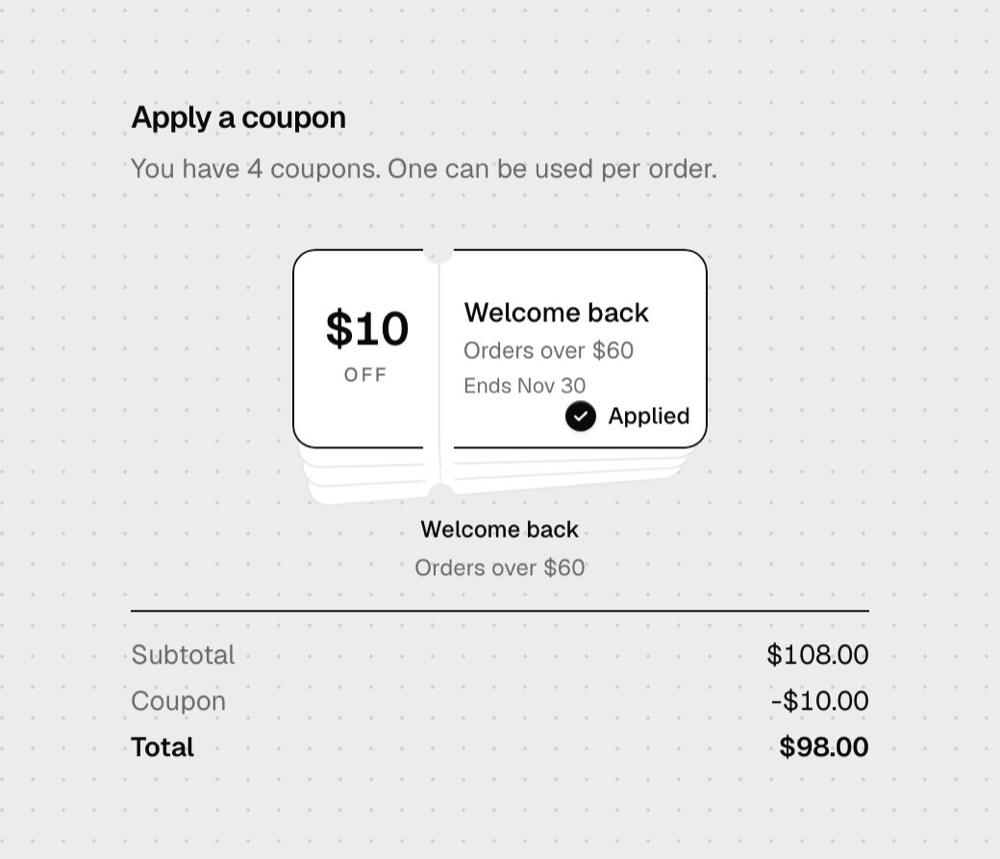
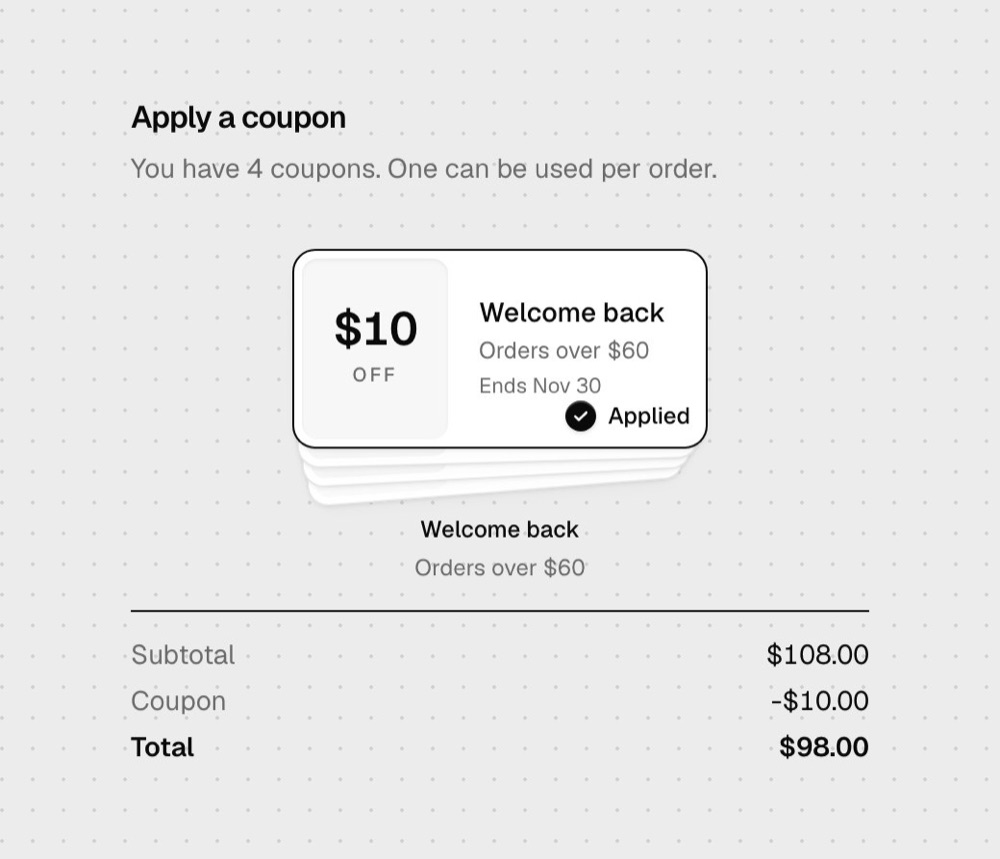
feat(web): no notches or tears on coupons either, inset well instead
- coupon-wallet: the notch mask and perforated divider are gone; the
  amount sits in an inset well (concentric 12 - 4 = 8px radius).
- DESIGN.md and guidelines.ts: no perforations, notches or tears even for
  coupon and pickup-ticket topics; reveal a code with a raised lid that
  lifts away from an inset well, or a bar that slides away. Only the
  receipt-printer scene keeps its receipt look.
- public/og/blocks: coupon-wallet, coupon-claim-card, review-request and
  pickup-ticket recaptured in light.

Changed region(s): [[0.465, 0.3329, 0.682, 0.454], [0.31, 0.3632, 0.434, 0.454], [0.434, 0.5146, 0.465, 0.5448]]

diff --git a/apps/web/registry/free/coupon-wallet/coupon-wallet.tsx b/apps/web/registry/free/coupon-wallet/coupon-wallet.tsx
@@ -1,7 +1,7 @@
 "use client";
 
 import { AnimatePresence, motion, useReducedMotion } from "framer-motion";
-import { useRef, useState, type CSSProperties, type KeyboardEvent } from "react";
+import { useRef, useState, type KeyboardEvent } from "react";
 
 import { Result } from "@/components/ui/stamp";
 import { cn } from "@/lib/utils";
@@ -98,13 +98,8 @@ const springs = {
   gentle: { type: "spring", stiffness: 240, damping: 30 },
 } as const;
 
-/** 票根寬度與打孔缺口半徑 */
+/** 左側面額凹面的寬度 */
 const STUB = 76;
-const NOTCH = 8;
-const notches: CSSProperties = (() => {
-  const mask = `radial-gradient(circle ${NOTCH}px at ${STUB}px 0, #0000 97%, #000), radial-gradient(circle ${NOTCH}px at ${STUB}px 100%, #0000 97%, #000)`;
-  return { maskImage: mask, WebkitMaskImage: mask, maskComposite: "intersect", WebkitMaskComposite: "source-in" };
-})();
 
 export function CouponWallet({ coupons, value, defaultValue = null, onChange, locale = "en", labels, className }: CouponWalletProps) {
   const t = { ...MESSAGES[resolveLocale(locale)], ...labels };
@@ -213,19 +208,21 @@ export function CouponWallet({ coupons, value, defaultValue = null, onChange, lo
               animate={target}
               transition={reduce ? { duration: 0 } : springs.gentle}
               style={{ zIndex: lifted ? n + 1 : open ? i : n - r, transformOrigin: "50% 120%" }}
-              className="absolute inset-x-0 top-5 mx-auto block h-[6.5rem] w-[13.5rem] rounded-md text-left focus-visible:outline-none [&:focus-visible>span]:ring-2 [&:focus-visible>span]:ring-ring motion-safe:active:scale-[0.97] transition-[color,background-color,border-color,opacity,scale]"
+              className="absolute inset-x-0 top-5 mx-auto block h-[6.5rem] w-[13.5rem] rounded-xl text-left focus-visible:outline-none [&:focus-visible>span]:ring-2 [&:focus-visible>span]:ring-ring motion-safe:active:scale-[0.97] transition-[color,background-color,border-color,opacity,scale]"
             >
               <span
-                style={notches}
                 className={cn(
-                  "relative flex h-full overflow-hidden rounded-xl border shadow-[0_1px_2px_rgb(0_0_0/0.05),0_4px_12px_-6px_rgb(0_0_0/0.06)] dark:shadow-[inset_0_1px_0_rgb(255_255_255/0.06)]",
+                  "relative flex h-full gap-1 overflow-hidden rounded-xl border p-1 shadow-[0_1px_2px_rgb(0_0_0/0.05),0_4px_12px_-6px_rgb(0_0_0/0.06)] dark:shadow-[inset_0_1px_0_rgb(255_255_255/0.06)]",
                   surface,
                   isOn ? spotBorder : edge,
                 )}
               >
-                {/* 不可用時只淡化內容，紙面保持不透明，扇形展開時後面的券才不會透出來 */}
+                {/* 面額放在凹面裡（同心圓角 12 − 4 = 8）。不可用時只淡化內容，表面保持不透明，扇形展開時後面的券才不會透出來 */}
                 <span
-                  className={cn("flex shrink-0 flex-col items-center justify-center border-r", edge, c.unavailableReason && "opacity-55")}
+                  className={cn(
+                    "flex shrink-0 flex-col items-center justify-center rounded-lg bg-muted/70 shadow-[inset_0_1px_2px_rgb(0_0_0/0.06)] dark:bg-foreground/[0.04] dark:shadow-[inset_0_1px_2px_rgb(0_0_0/0.4)]",
+                    c.unavailableReason && "opacity-55",
+                  )}
                   style={{ width: STUB }}
                 >
                   <span className={cn("text-2xl leading-none font-semibold tracking-tight tabular-nums", spot)}>{c.amount}</span>

diff --git a/apps/web/lib/agent/guidelines.ts b/apps/web/lib/agent/guidelines.ts
@@ -49,7 +49,7 @@ const craft = `## Series: craft (default when meta.series is missing)
 
 ${seriesSummary.craft}
 
-SunUI dropped its old "paper" look on 2026-11-19: no paper or ink hex colours, no perforations, notches or zigzag tears as a signature, no flat shadowless cards. If an older block still has \`#f7f7f7\`, \`#e2e2e2\` or \`#171717\` classes, that is legacy; new code uses the tokens below.
+SunUI dropped its old "paper" look on 2026-11-19: no paper or ink hex colours, no perforations, notches or zigzag tears (not even on coupons or pickup tickets; reveal a code with a raised lid that lifts away from an inset well, or a bar that slides away), no flat shadowless cards. If an older block still has \`#f7f7f7\`, \`#e2e2e2\` or \`#171717\` classes, that is legacy; new code uses the tokens below.
 
 | Role | Tailwind | Fallback |
 |---|---|---|

diff --git a/apps/web/DESIGN.md b/apps/web/DESIGN.md
@@ -54,7 +54,7 @@ block 不寫死色碼，全部讀買家的 shadcn 主題 token，裝進任何主
 
 - **同心圓角**：控制項 6px（`rounded-md`），卡片與券 12px（`rounded-xl`），面板與對話框 16px（`rounded-2xl`），膠囊 `rounded-full`。巢狀時內圓角 = 外圓角 − 內距，例如 12px 卡片內距 4px 的縮圖用 8px。
 - 不用 `rounded-3xl` 以上的大圓角當主要外形。
-- 分隔用實線 hairline（`divide-foreground/10`）。**虛線不再代表「可撕」**：沒有打孔線、半圓缺口、鋸齒撕邊這類紙品符號。只有題材本身就是實體票券（登機證、取貨券）才可以用，而且當作內容，不當作招牌。
+- 分隔用實線 hairline（`divide-foreground/10`）。**虛線不再代表「可撕」**：沒有打孔線、半圓缺口、鋸齒撕邊這類紙品符號，題材是優惠券或取貨券也一樣（2026-11-19 決定）。要表現「揭開」「領取」，用凹面加凸起的蓋板、蓋板浮起移開，或整條滑開，不用撕。收據列印機這類以收據機器為主角的場景例外。
 - **密度分層**：總覽層（列表、卡片牆、儀表板）保持安靜、密、好比較，高度最多 e1；較重的表現（3D、大圖表、細節動態）只放在使用者主動點開的深入層（抽屜、側邊面板、詳情頁）。兩層之間的標題、數字、配色要延續，深入層也要保留一個精確的讀法。參考：`reports/contribution-skyline 參考分析-2026-11-07.md`。
 
 ## 4. 字
@@ -133,7 +133,7 @@ const springs = {
 - [ ] 沒有裝飾性漸層、漸層字、光暈、彩色陰影、粒子；模擬光的漸層明度差不超過 3%、同色相
 - [ ] 高度只用 e0 到 e3，陰影有邊線，深色模式用頂邊高光而不是投影
 - [ ] 毛玻璃只在浮在內容上的功能層
-- [ ] 同心圓角；沒有打孔線、缺口、撕邊這類紙品符號（題材本身是票券除外）
+- [ ] 同心圓角；沒有打孔線、缺口、撕邊這類紙品符號（優惠券、取貨券也不用）
 - [ ] 每個可按的東西有 hover、focus-visible、按下三種狀態
 - [ ] 結果用 `Result`，放在動作發生的位置，沒有壓在其他內容上
 - [ ] 沒有裝飾性進場與常駐循環（倒數、載入、浮層落定、模板主視覺例外除外）
